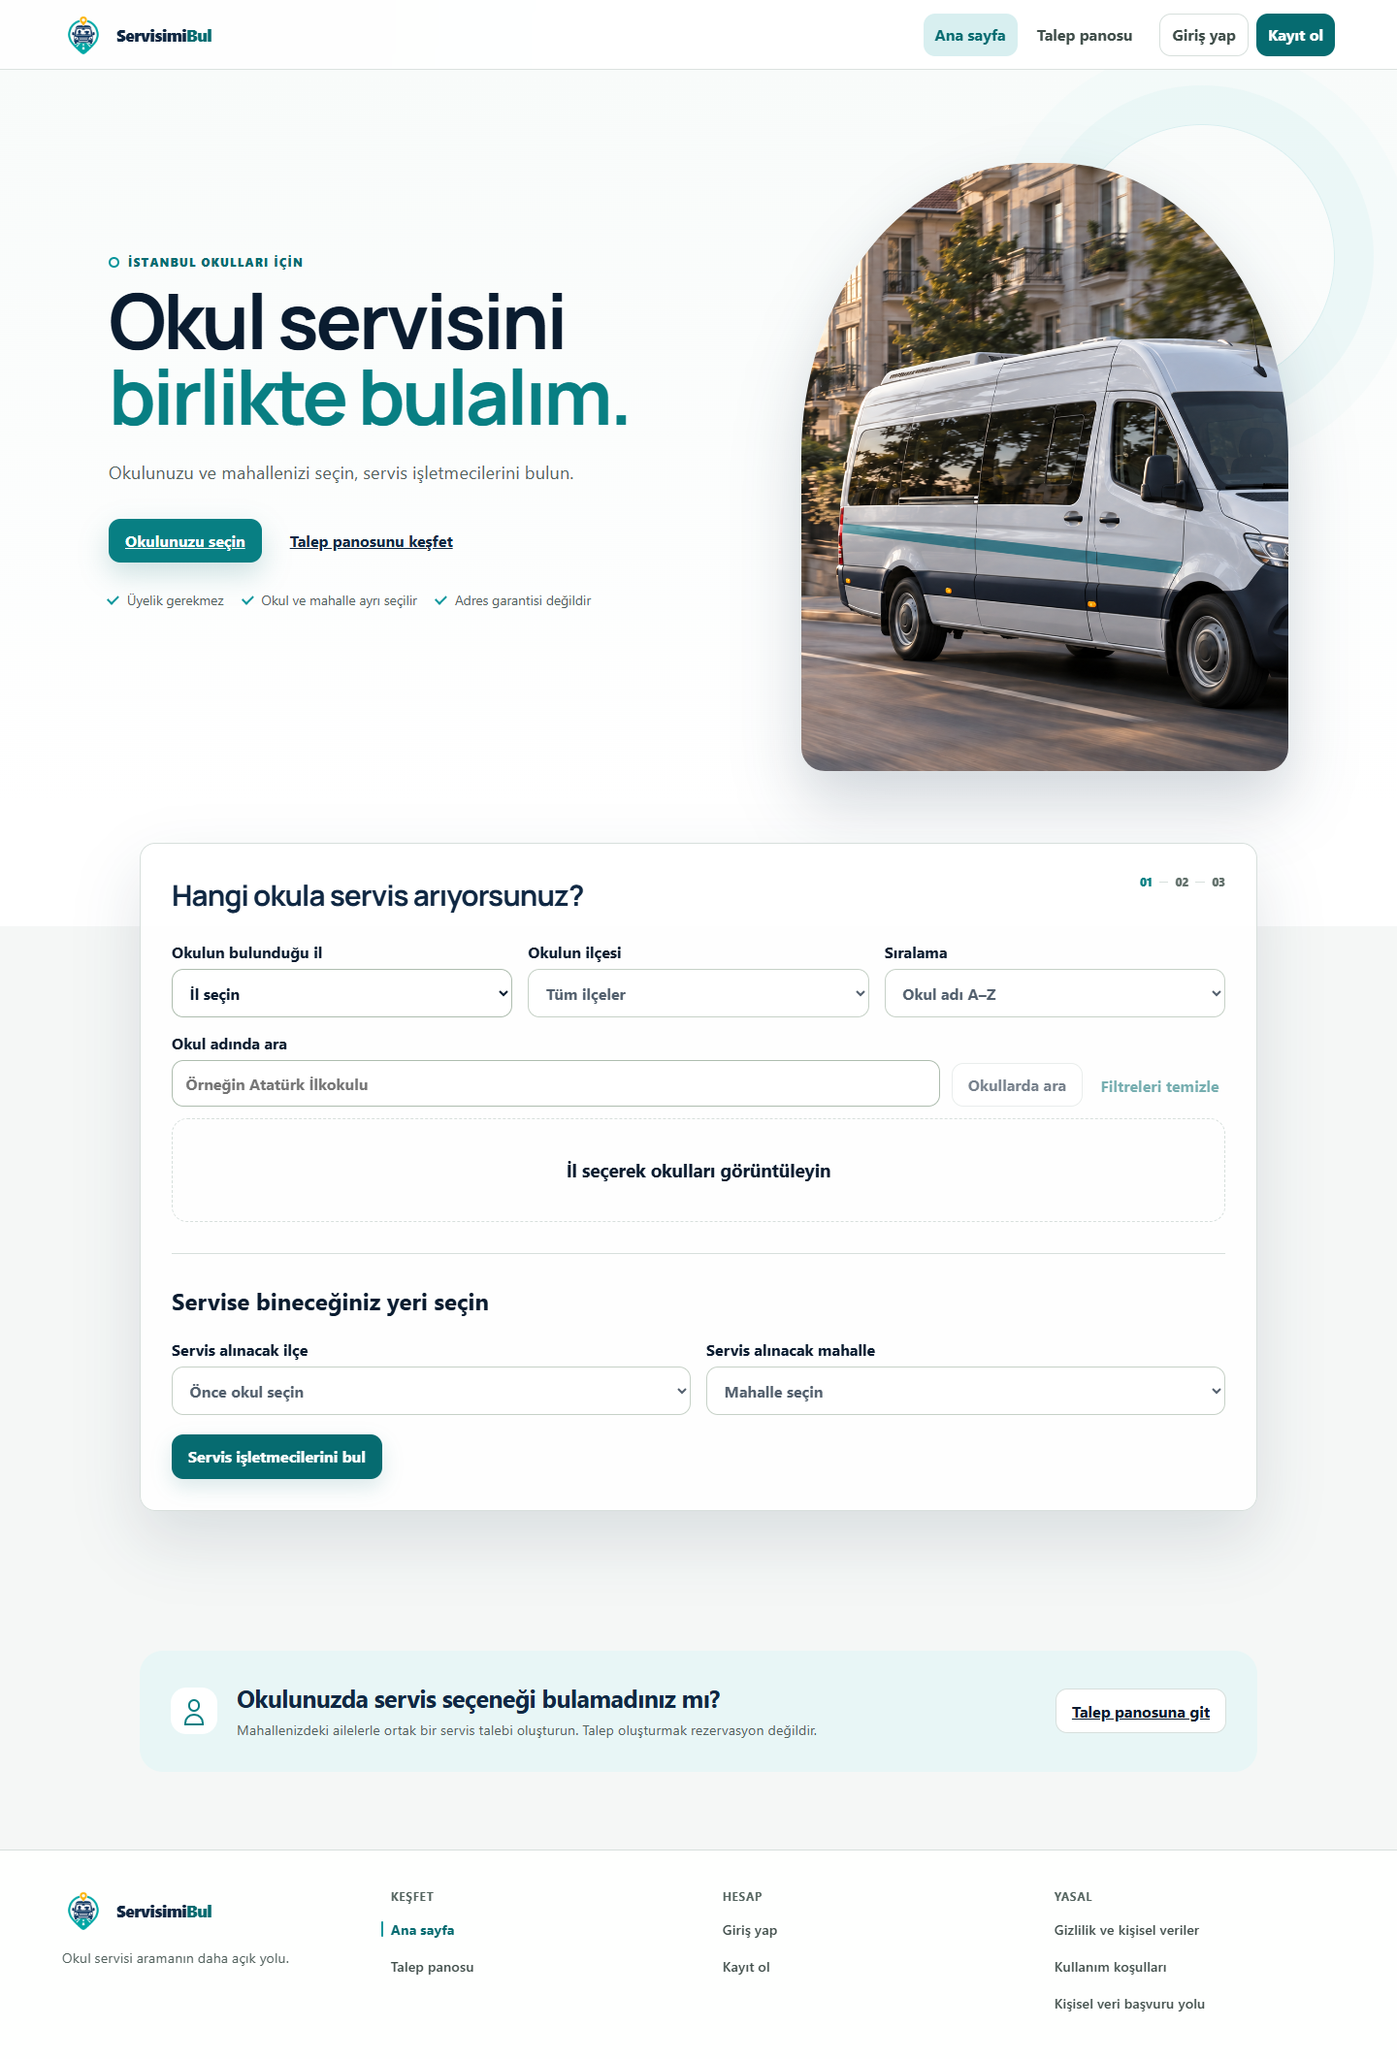
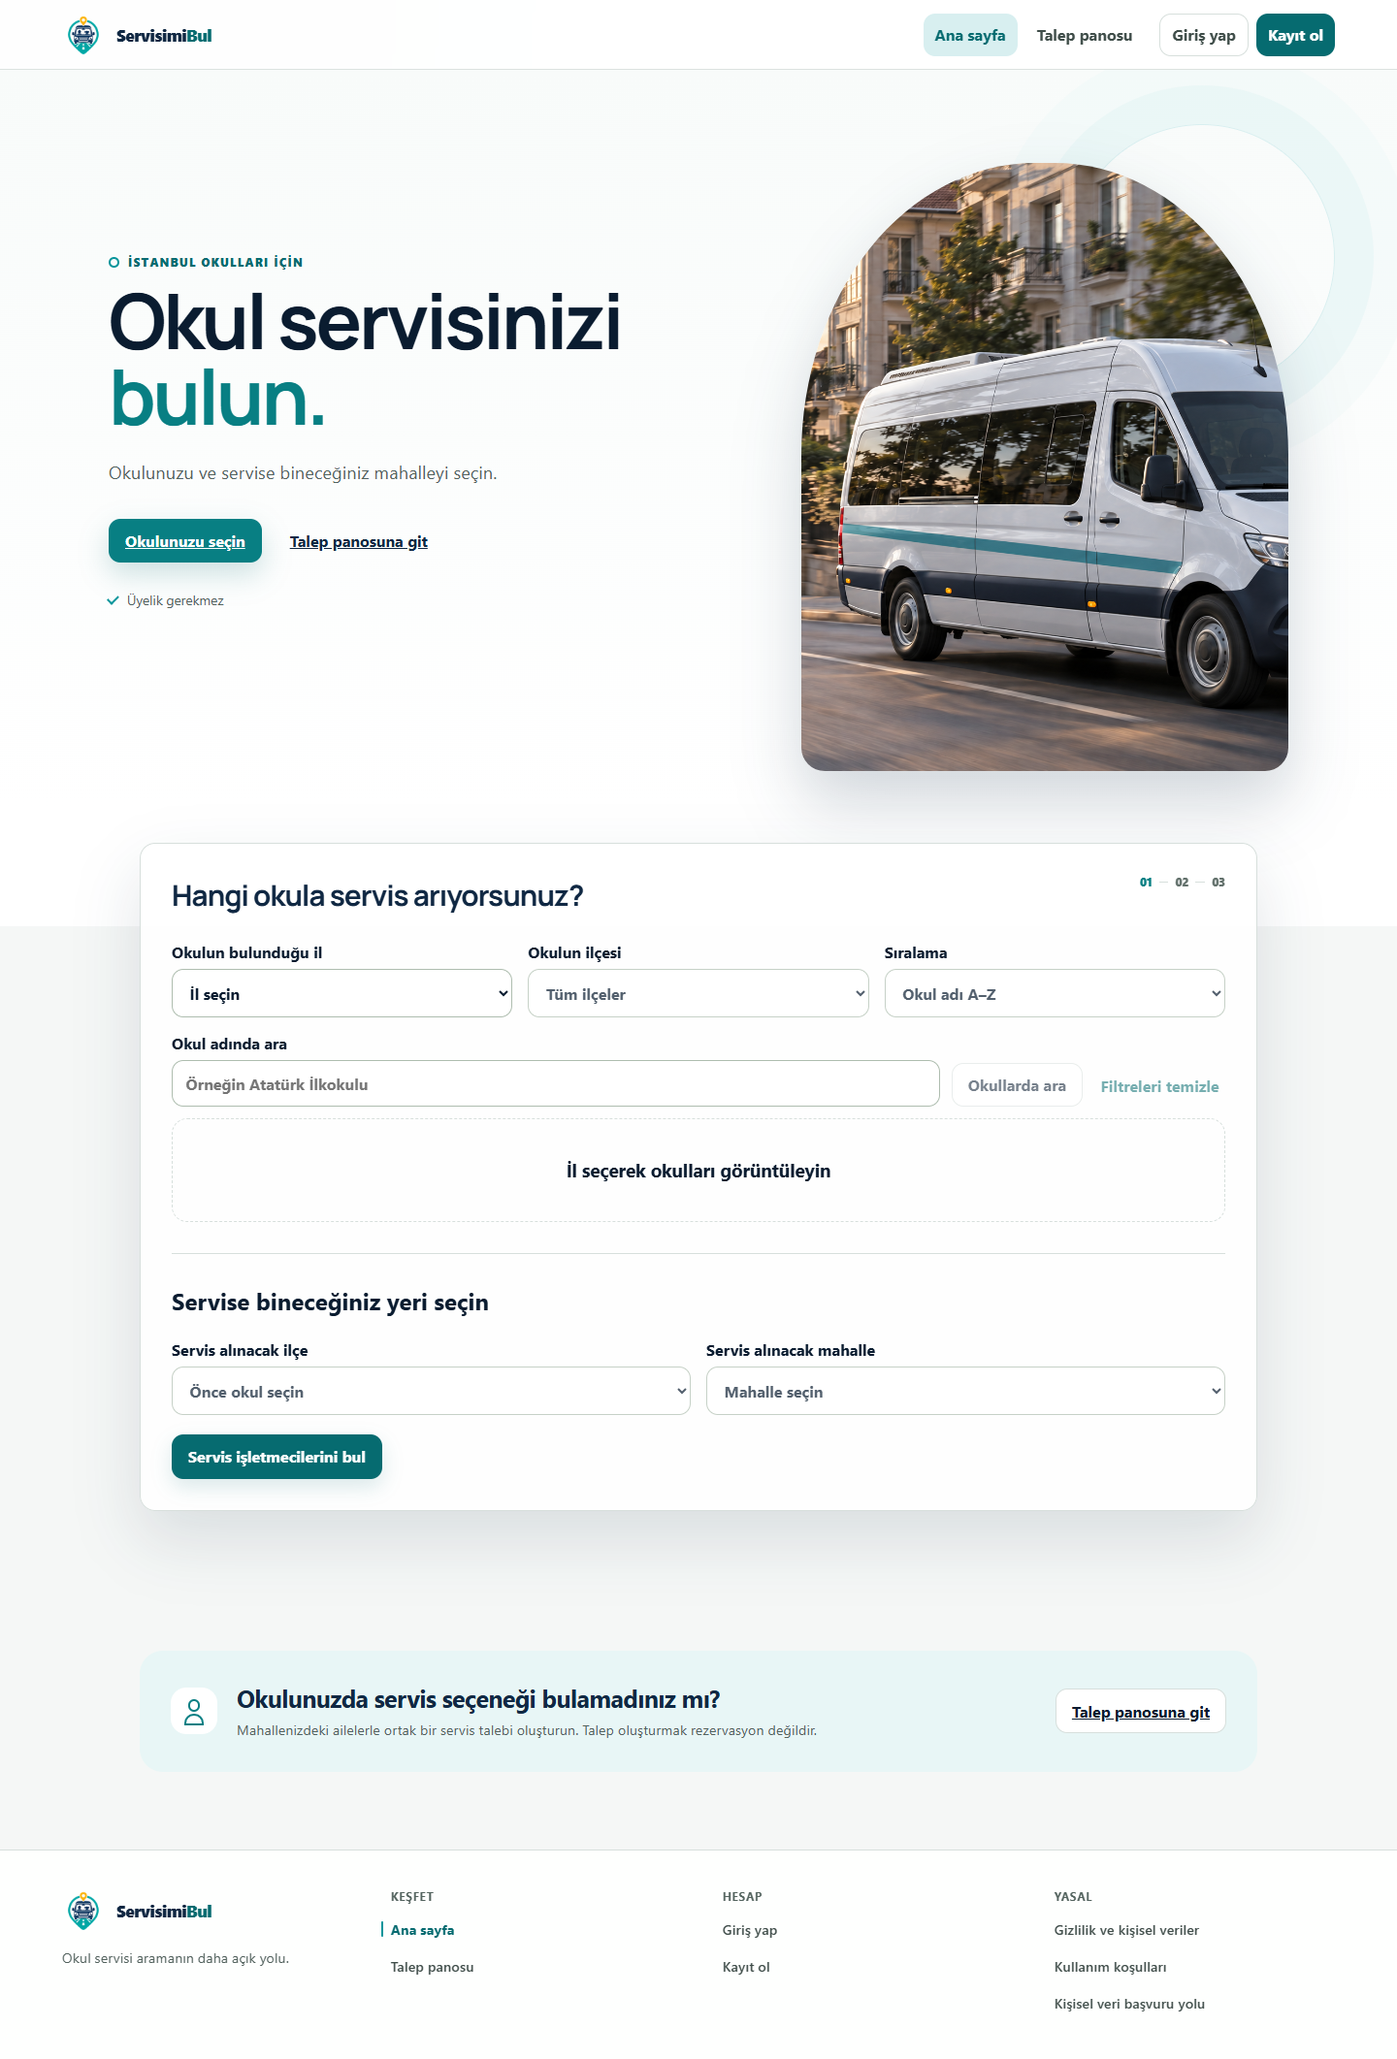
fix(copy): final copy-correctness pass for #345
- Forgot password: keep eligible-account, non-enumerating wording.
- Disabled email change: "E-posta değişikliği şu anda kullanılamıyor."
- Password errors: state the 12-64 character and 72-byte limits accurately.
- Operator school actions refer to the operator's own school list.
- Comment gate names administrator approval explicitly.
- Homepage: "Okul servisinizi bulun.", "Talep panosuna git", drop
  redundant hero principles; scope duplicate-name link tests.

Changed region(s): [[0.125, 0.1244, 0.4375, 0.2798]]

diff --git a/servisimibul-frontend/src/features/demand/demand-flow.test.tsx b/servisimibul-frontend/src/features/demand/demand-flow.test.tsx
@@ -1732,11 +1732,15 @@ describe('demand comments', () => {
         )
         expect(await screen.findByLabelText('Yorumunuz')).toBeInTheDocument()
         expect(
-          screen.queryByText(/Yorum yazmak için işletmeci onayı gerekir/),
+          screen.queryByText(
+            /işletmeci başvurunuzun yönetici tarafından onaylanması/,
+          ),
         ).not.toBeInTheDocument()
       } else {
         expect(
-          await screen.findByText(/Yorum yazmak için işletmeci onayı gerekir/),
+          await screen.findByText(
+            /işletmeci başvurunuzun yönetici tarafından onaylanması/,
+          ),
         ).toBeInTheDocument()
         expect(
           screen.getByRole('link', { name: 'Başvuru durumunu görüntüle' }),
@@ -1769,7 +1773,7 @@ describe('demand comments', () => {
     fireEvent.click(button)
 
     const note = await screen.findByText(
-      /Yorum yazmak için işletmeci onayı gerekir/,
+      /işletmeci başvurunuzun yönetici tarafından onaylanması/,
     )
     await waitFor(() => expect(note).toHaveFocus())
     expect(
@@ -1796,7 +1800,9 @@ describe('demand comments', () => {
 
     renderRoute(`/demands/${demandId}`)
     expect(
-      await screen.findByText(/Yorum yazmak için işletmeci onayı gerekir/),
+      await screen.findByText(
+        /işletmeci başvurunuzun yönetici tarafından onaylanması/,
+      ),
     ).toBeInTheDocument()
     await waitFor(() => expect(authChecks).toBeGreaterThanOrEqual(2))
 
@@ -1812,7 +1818,9 @@ describe('demand comments', () => {
       await screen.findByRole('button', { name: 'Yorum yaz' }),
     ).toBeInTheDocument()
     expect(
-      screen.queryByText(/Yorum yazmak için işletmeci onayı gerekir/),
+      screen.queryByText(
+        /işletmeci başvurunuzun yönetici tarafından onaylanması/,
+      ),
     ).not.toBeInTheDocument()
   })
 })

diff --git a/servisimibul-frontend/src/features/operator/OperatorSchoolsPage.tsx b/servisimibul-frontend/src/features/operator/OperatorSchoolsPage.tsx
@@ -223,8 +223,8 @@ export function OperatorSchoolsPage() {
       updateRelationship(updated)
       setNotice({
         message: updated.active
-          ? 'Okul etkinleştirildi.'
-          : 'Okul pasife alındı; artık aramalarda kullanılmaz.',
+          ? 'Okul hizmet listenizde etkinleştirildi.'
+          : 'Okul hizmet listenizde pasife alındı; aramalarda kullanılmaz.',
         tone: updated.active ? 'success' : 'warning',
       })
     } catch (reason) {
@@ -248,7 +248,7 @@ export function OperatorSchoolsPage() {
       focusAddAfterRemoval.current = true
       setRemoveTarget(undefined)
       setNotice({
-        message: 'Okul ve hizmet mahalleleri kaldırıldı.',
+        message: 'Okul ve hizmet mahalleleri listenizden kaldırıldı.',
         tone: 'warning',
       })
     } catch (reason) {
@@ -653,10 +653,10 @@ export function OperatorSchoolsPage() {
 
       {removeTarget && (
         <SchoolDialog
-          description={`${removeTarget.schoolName} ve hizmet mahalleleri kaldırılacak.`}
+          description={`${removeTarget.schoolName} ve hizmet mahalleleri listenizden kaldırılacak.`}
           onCancel={() => setRemoveTarget(undefined)}
           pending={pending === removeTarget.id}
-          title="Okul kaldırılsın mı?"
+          title="Okul listenizden kaldırılsın mı?"
         >
           {removeError && (
             <div className="form-error" role="alert">
@@ -828,7 +828,7 @@ function SchoolRow({
         )}
         {relationship.schoolActive && !relationship.active && (
           <p className="school-warning">
-            Etkinleştirene kadar bu okul aramalarda kullanılmaz.
+            Listenizde etkinleştirene kadar bu okul aramalarda kullanılmaz.
           </p>
         )}
         {relationship.schoolActive &&

diff --git a/servisimibul-frontend/e2e/ui-fidelity-12-operator-schools.spec.ts b/servisimibul-frontend/e2e/ui-fidelity-12-operator-schools.spec.ts
@@ -65,7 +65,7 @@ for (const viewport of viewports) {
     const removeButton = row.getByRole('button', { name: 'Kaldır' })
     await removeButton.click()
     const confirm = page.getByRole('dialog', {
-      name: 'Okul kaldırılsın mı?',
+      name: 'Okul listenizden kaldırılsın mı?',
     })
     await expect(confirm.getByRole('button', { name: 'Vazgeç' })).toBeFocused()
     await assertAccessibleAndContained(page)
@@ -148,7 +148,9 @@ test('O03 activation changes O01 readiness and keeps keyboard focus', async ({
 
   await page.goto('/operator/schools')
   await activate.click()
-  await expect(page.getByText('Okul etkinleştirildi.')).toBeVisible()
+  await expect(
+    page.getByText('Okul hizmet listenizde etkinleştirildi.'),
+  ).toBeVisible()
   await page.goto('/operator')
   await expect(ready).toBeVisible()
 })
@@ -180,7 +182,7 @@ test('O03 confirms removal, survives Escape and reports failures', async ({
   await page.goto('/operator/schools')
   await page.getByRole('button', { name: 'Kaldır' }).click()
   const confirm = page.getByRole('dialog', {
-    name: 'Okul kaldırılsın mı?',
+    name: 'Okul listenizden kaldırılsın mı?',
   })
   await confirm.getByRole('button', { name: 'Kaldır' }).click()
   await expect(confirm.getByRole('alert')).toHaveText(
@@ -198,7 +200,7 @@ test('O03 confirms removal, survives Escape and reports failures', async ({
   release()
   await expect(confirm).toHaveCount(0)
   await expect(
-    page.getByText('Okul ve hizmet mahalleleri kaldırıldı.'),
+    page.getByText('Okul ve hizmet mahalleleri listenizden kaldırıldı.'),
   ).toBeVisible()
   await expect(page.getByRole('button', { name: 'Okul ekle' })).toBeFocused()
   expect(state.operatorSchoolAdded).toBe(false)

diff --git a/servisimibul-frontend/src/features/operator/operator-flow.test.tsx b/servisimibul-frontend/src/features/operator/operator-flow.test.tsx
@@ -974,7 +974,7 @@ describe('operator workspace flows', () => {
     renderRoute('/operator/schools')
     fireEvent.click(await screen.findByRole('button', { name: 'Kaldır' }))
     let dialog = screen.getByRole('dialog', {
-      name: 'Okul kaldırılsın mı?',
+      name: 'Okul listenizden kaldırılsın mı?',
     })
     fireEvent.click(within(dialog).getByRole('button', { name: 'Vazgeç' }))
     expect(deletes).toBe(0)
@@ -982,7 +982,7 @@ describe('operator workspace flows', () => {
 
     fireEvent.click(screen.getByRole('button', { name: 'Kaldır' }))
     dialog = screen.getByRole('dialog', {
-      name: 'Okul kaldırılsın mı?',
+      name: 'Okul listenizden kaldırılsın mı?',
     })
     fireEvent.click(within(dialog).getByRole('button', { name: 'Kaldır' }))
     expect(await within(dialog).findByRole('alert')).toHaveTextContent(
@@ -992,7 +992,9 @@ describe('operator workspace flows', () => {
 
     fireEvent.click(within(dialog).getByRole('button', { name: 'Kaldır' }))
     expect(
-      await screen.findByText('Okul ve hizmet mahalleleri kaldırıldı.'),
+      await screen.findByText(
+        'Okul ve hizmet mahalleleri listenizden kaldırıldı.',
+      ),
     ).toBeInTheDocument()
     expect(screen.queryByText('Örnek Okulu')).not.toBeInTheDocument()
     expect(screen.queryByRole('dialog')).not.toBeInTheDocument()

diff --git a/servisimibul-frontend/src/features/discovery/PublicDiscoveryPage.test.tsx b/servisimibul-frontend/src/features/discovery/PublicDiscoveryPage.test.tsx
@@ -18,14 +18,16 @@ describe('public operator discovery', () => {
 
     expect(
       screen.getByRole('heading', {
-        name: 'Okul servisini birlikte bulalım.',
+        name: 'Okul servisinizi bulun.',
       }),
     ).toBeInTheDocument()
     expect(
       screen.getByRole('link', { name: 'Okulunuzu seçin' }),
     ).toHaveAttribute('href', '#school-search')
     expect(
-      screen.getByRole('link', { name: 'Talep panosunu keşfet' }),
+      within(
+        screen.getByRole('region', { name: 'Okul servisinizi bulun.' }),
+      ).getByRole('link', { name: 'Talep panosuna git' }),
     ).toHaveAttribute('href', '/demands')
     expect(
       screen.queryByRole('heading', { name: 'Üç adımda servis keşfi' }),
@@ -280,7 +282,11 @@ describe('public operator discovery', () => {
     expect(emptyLink?.getAttribute('href')).not.toContain('pickupDistrictId=10')
     // The unrelated promotional link keeps its plain destination.
     expect(
-      screen.getByRole('link', { name: 'Talep panosuna git' }),
+      within(
+        screen.getByRole('complementary', {
+          name: 'Okulunuzda servis seçeneği bulamadınız mı?',
+        }),
+      ).getByRole('link', { name: 'Talep panosuna git' }),
     ).toHaveAttribute('href', '/demands')
 
     // Unsubmitted edits never produce a link for the unexecuted selection.

diff --git a/servisimibul-frontend/src/features/discovery/PublicDiscoveryPage.tsx b/servisimibul-frontend/src/features/discovery/PublicDiscoveryPage.tsx
@@ -462,23 +462,21 @@ export function PublicDiscoveryPage() {
           <div className="discovery-hero-copy">
             <p className="discovery-kicker">İstanbul okulları için</p>
             <h1 id="discovery-title">
-              Okul servisini <em>birlikte bulalım.</em>
+              Okul servisinizi <em>bulun.</em>
             </h1>
             <p className="discovery-hero-lede">
-              Okulunuzu ve mahallenizi seçin, servis işletmecilerini bulun.
+              Okulunuzu ve servise bineceğiniz mahalleyi seçin.
             </p>
             <div className="discovery-hero-actions">
               <a className="primary-button" href="#school-search">
                 Okulunuzu seçin
               </a>
               <Link className="secondary-button" to="/demands" viewTransition>
-                Talep panosunu keşfet
+                Talep panosuna git
               </Link>
             </div>
             <ul className="discovery-principles" aria-label="Arama özellikleri">
               <li>Üyelik gerekmez</li>
-              <li>Okul ve mahalle ayrı seçilir</li>
-              <li>Adres garantisi değildir</li>
             </ul>
           </div>
           <figure className="discovery-hero-visual">

diff --git a/servisimibul-frontend/e2e-real/real-full-stack.spec.ts b/servisimibul-frontend/e2e-real/real-full-stack.spec.ts
@@ -541,13 +541,13 @@ test('runs the approved MVP journey against the real backend and PostgreSQL', as
 
       await operatorPage.getByRole('button', { name: 'Etkinleştir' }).click()
       await expect(
-        operatorPage.getByText('Okul etkinleştirildi.'),
+        operatorPage.getByText('Okul hizmet listenizde etkinleştirildi.'),
       ).toBeVisible()
       expect(await contributes()).toBe(true)
 
       await operatorPage.getByRole('button', { name: 'Kaldır' }).click()
       await operatorPage
-        .getByRole('dialog', { name: 'Okul kaldırılsın mı?' })
+        .getByRole('dialog', { name: 'Okul listenizden kaldırılsın mı?' })
         .getByRole('button', { name: 'Kaldır' })
         .click()
       await expect(
@@ -1860,7 +1860,7 @@ test('runs the approved MVP journey against the real backend and PostgreSQL', as
         await expect(skipLink).toBeAttached()
         await expect(
           mobilePage.getByRole('heading', {
-            name: 'Okul servisini birlikte bulalım.',
+            name: 'Okul servisinizi bulun.',
           }),
         ).toBeVisible()
         await mobilePage.bringToFront()

diff --git a/servisimibul-frontend/e2e/ui-17-home-closing-cta.spec.ts b/servisimibul-frontend/e2e/ui-17-home-closing-cta.spec.ts
@@ -28,7 +28,11 @@ for (const viewport of viewports) {
     await expect(heroCta).toHaveAttribute('href', '#school-search')
     await expect(page.locator('#school-search')).toBeVisible()
     await expect(
-      page.getByRole('link', { name: 'Talep panosuna git' }),
+      page
+        .getByRole('complementary', {
+          name: 'Okulunuzda servis seçeneği bulamadınız mı?',
+        })
+        .getByRole('link', { name: 'Talep panosuna git' }),
     ).toHaveAttribute('href', '/demands')
 
     // The demand callout meets the footer with a bounded, intentional gap.
@@ -64,7 +68,12 @@ test('keyboard focus moves from the demand callout straight into the footer', as
   await installMockApi(page, createMockApiState())
   await page.goto('/')
 
-  await page.getByRole('link', { name: 'Talep panosuna git' }).focus()
+  await page
+    .getByRole('complementary', {
+      name: 'Okulunuzda servis seçeneği bulamadınız mı?',
+    })
+    .getByRole('link', { name: 'Talep panosuna git' })
+    .focus()
   await page.keyboard.press('Tab')
   await expect(
     page

diff --git a/servisimibul-frontend/src/app/router.test.tsx b/servisimibul-frontend/src/app/router.test.tsx
@@ -372,14 +372,16 @@ describe('application routes', () => {
       expect(document.querySelector('.road-backdrop')).toBeInTheDocument()
       expect(
         screen.getByRole('heading', {
-          name: 'Okul servisini birlikte bulalım.',
+          name: 'Okul servisinizi bulun.',
         }),
       ).toBeInTheDocument()
       expect(
         screen.queryByText('Servis bulmanın yeni yolu.'),
       ).not.toBeInTheDocument()
       expect(
-        screen.getByRole('link', { name: 'Talep panosunu keşfet' }),
+        within(
+          screen.getByRole('region', { name: 'Okul servisinizi bulun.' }),
+        ).getByRole('link', { name: 'Talep panosuna git' }),
       ).toHaveAttribute('href', '/demands')
       // Let the public page's database-backed pilot location lookup finish.
       expect(

diff --git a/servisimibul-frontend/e2e/ui-07-rollout-gate.spec.ts b/servisimibul-frontend/e2e/ui-07-rollout-gate.spec.ts
@@ -30,11 +30,11 @@ interface Screen {
 }
 
 const publicScreens: Screen[] = [
-  { id: 'P01', path: '/', heading: 'Okul servisini birlikte bulalım.' },
+  { id: 'P01', path: '/', heading: 'Okul servisinizi bulun.' },
   {
     id: 'P02',
     path: '/',
-    heading: 'Okul servisini birlikte bulalım.',
+    heading: 'Okul servisinizi bulun.',
     marker: (page) =>
       page.getByRole('heading', { name: '1 işletmeci bulundu' }),
     reach: async (page) => {
@@ -52,7 +52,7 @@ const publicScreens: Screen[] = [
   {
     id: 'P03',
     path: '/',
-    heading: 'Okul servisini birlikte bulalım.',
+    heading: 'Okul servisinizi bulun.',
     marker: (page) =>
       page.getByRole('region', { name: 'Mesafeye göre aylık resmî ücretler' }),
     reach: async (page) => {

diff --git a/servisimibul-frontend/src/features/auth/AuthPages.test.tsx b/servisimibul-frontend/src/features/auth/AuthPages.test.tsx
@@ -357,7 +357,7 @@ describe('parent account onboarding', () => {
 
     expect(
       await screen.findByText(
-        /Bu adresle bir hesap varsa şifre yenileme bağlantısı/,
+        /Bu adrese ait uygun bir hesap varsa şifre yenileme bağlantısı/,
       ),
     ).toBeInTheDocument()
     expect(requestBody).toEqual({ email: 'parent@example.test' })
@@ -440,7 +440,7 @@ describe('parent account onboarding', () => {
     )
     expect(
       screen.queryByText(
-        /Bu adresle bir hesap varsa şifre yenileme bağlantısı/,
+        /Bu adrese ait uygun bir hesap varsa şifre yenileme bağlantısı/,
       ),
     ).not.toBeInTheDocument()
     expect(screen.getByLabelText('E-posta')).toHaveValue('parent@example.test')

diff --git a/servisimibul-frontend/src/api/contracts.ts b/servisimibul-frontend/src/api/contracts.ts
@@ -154,7 +154,7 @@ const localizedProblems: Record<string, string> = {
 const localizedFieldMessages: Record<string, string> = {
   'Enter a valid email address': 'Geçerli bir e-posta adresi girin.',
   'Password must be 12-64 characters and at most 72 UTF-8 bytes':
-    'Şifre 12-64 karakter olmalıdır. Çok sayıda özel karakter varsa daha kısa bir şifre seçin.',
+    'Şifre 12-64 karakter olmalı ve 72 baytı aşmamalıdır. Türkçe harf veya emoji kullandıysanız şifreyi kısaltın.',
   'Business name must be 2-120 characters':
     'İşletme adı 2-120 karakter olmalıdır.',
   'Enter a valid international phone number':
